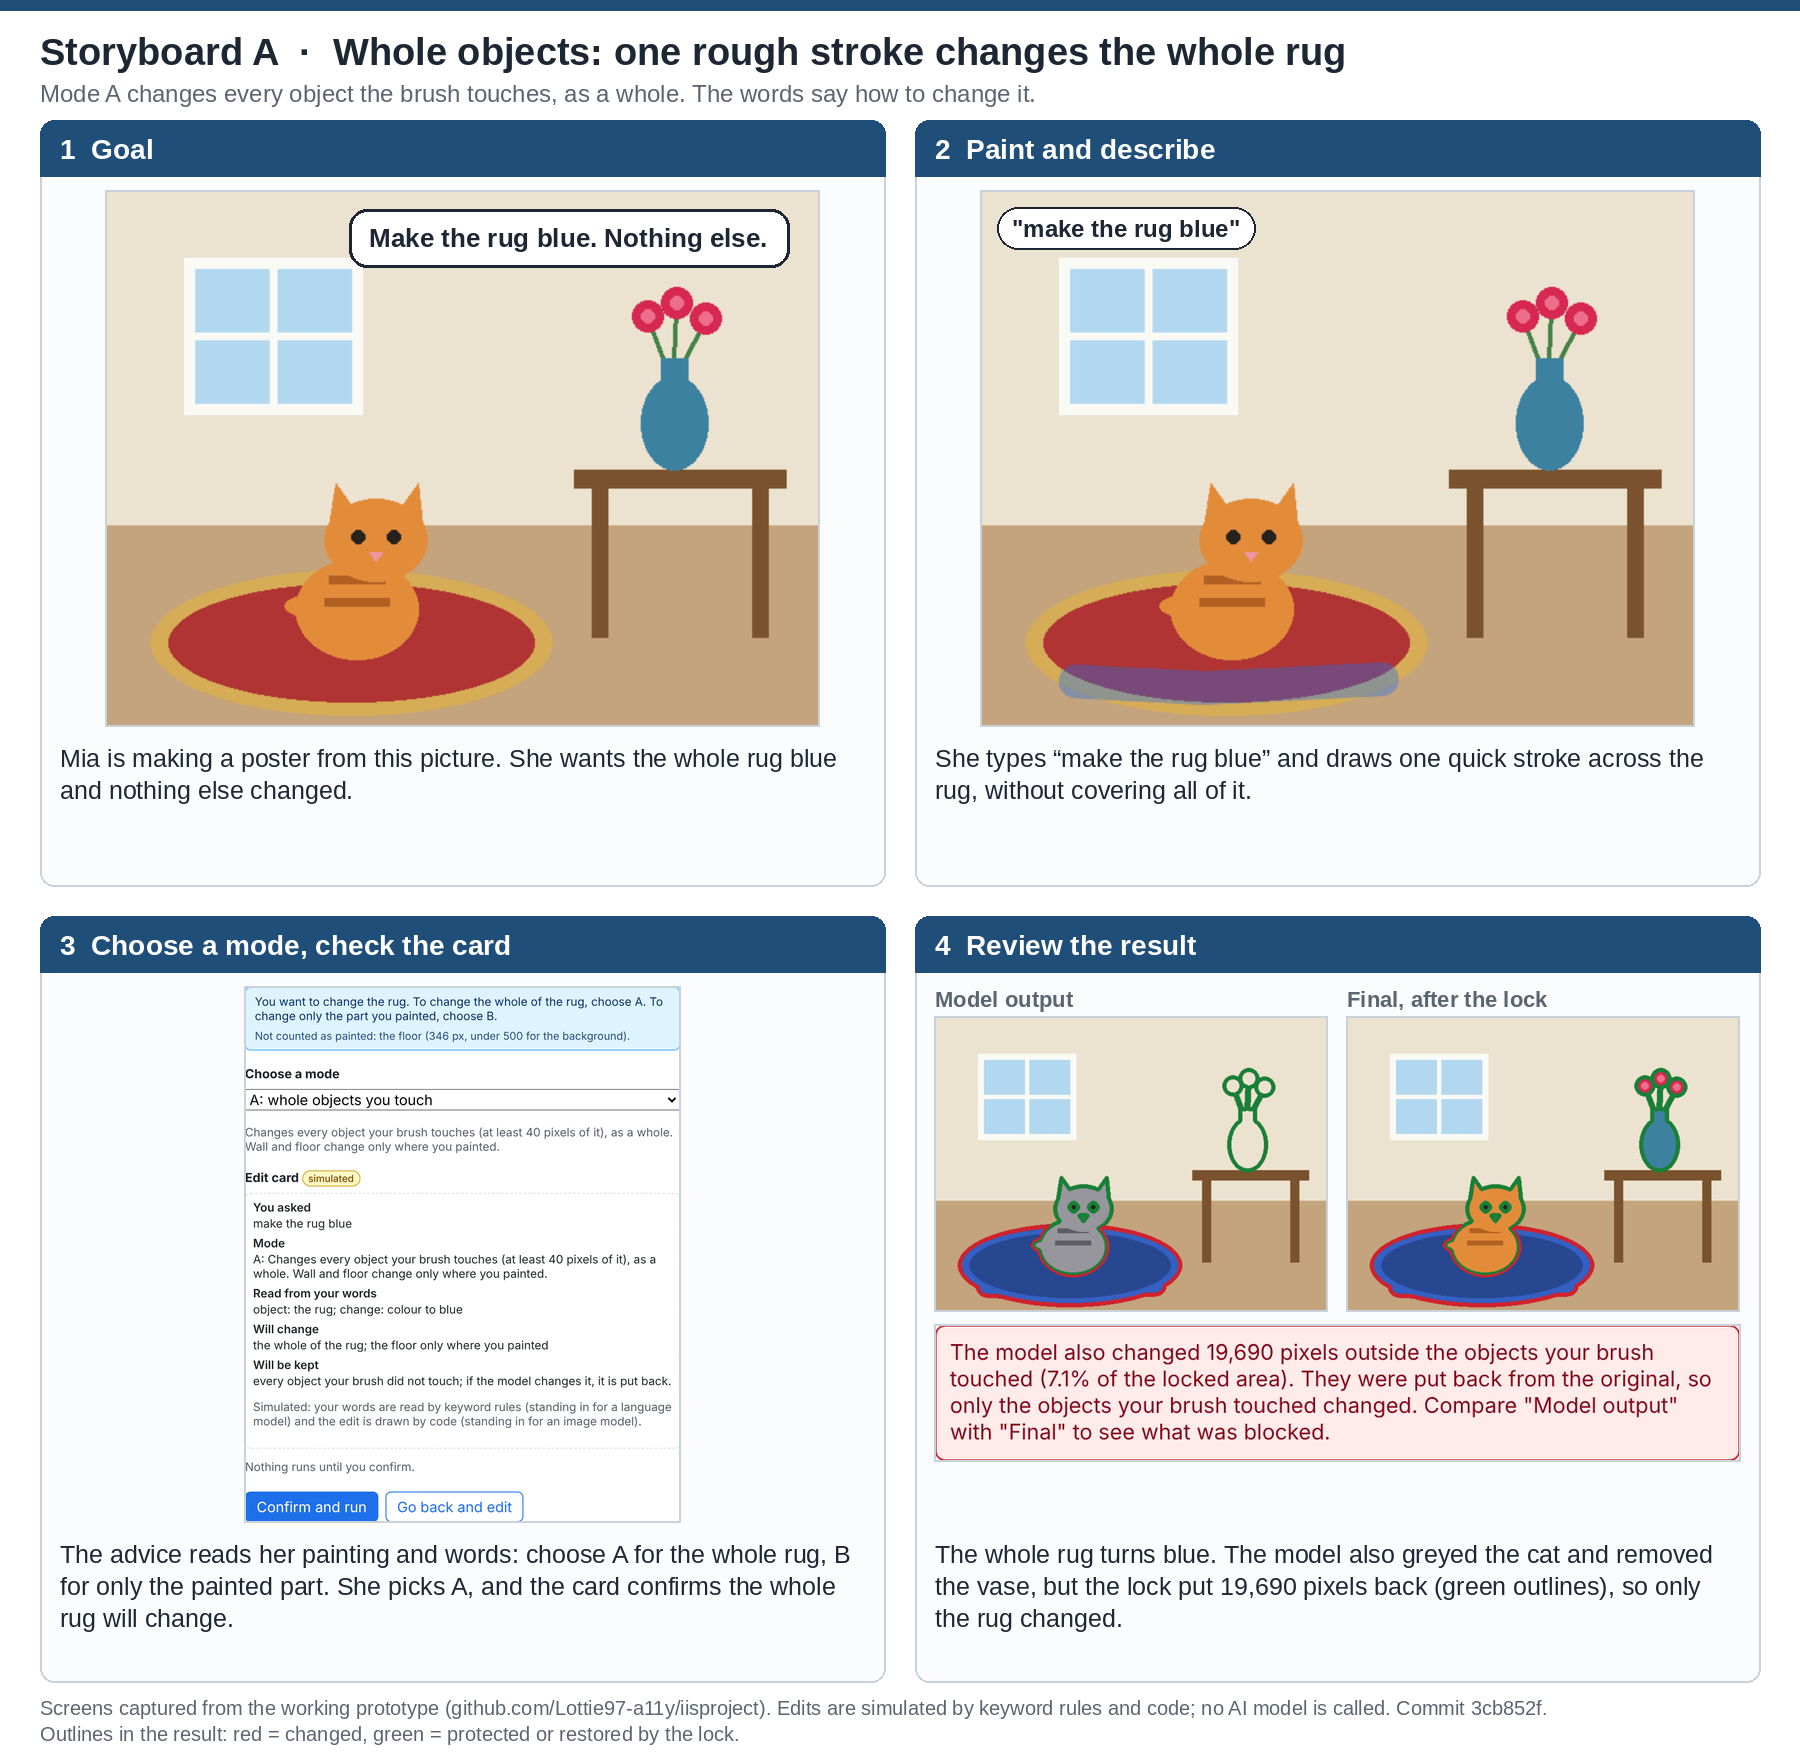
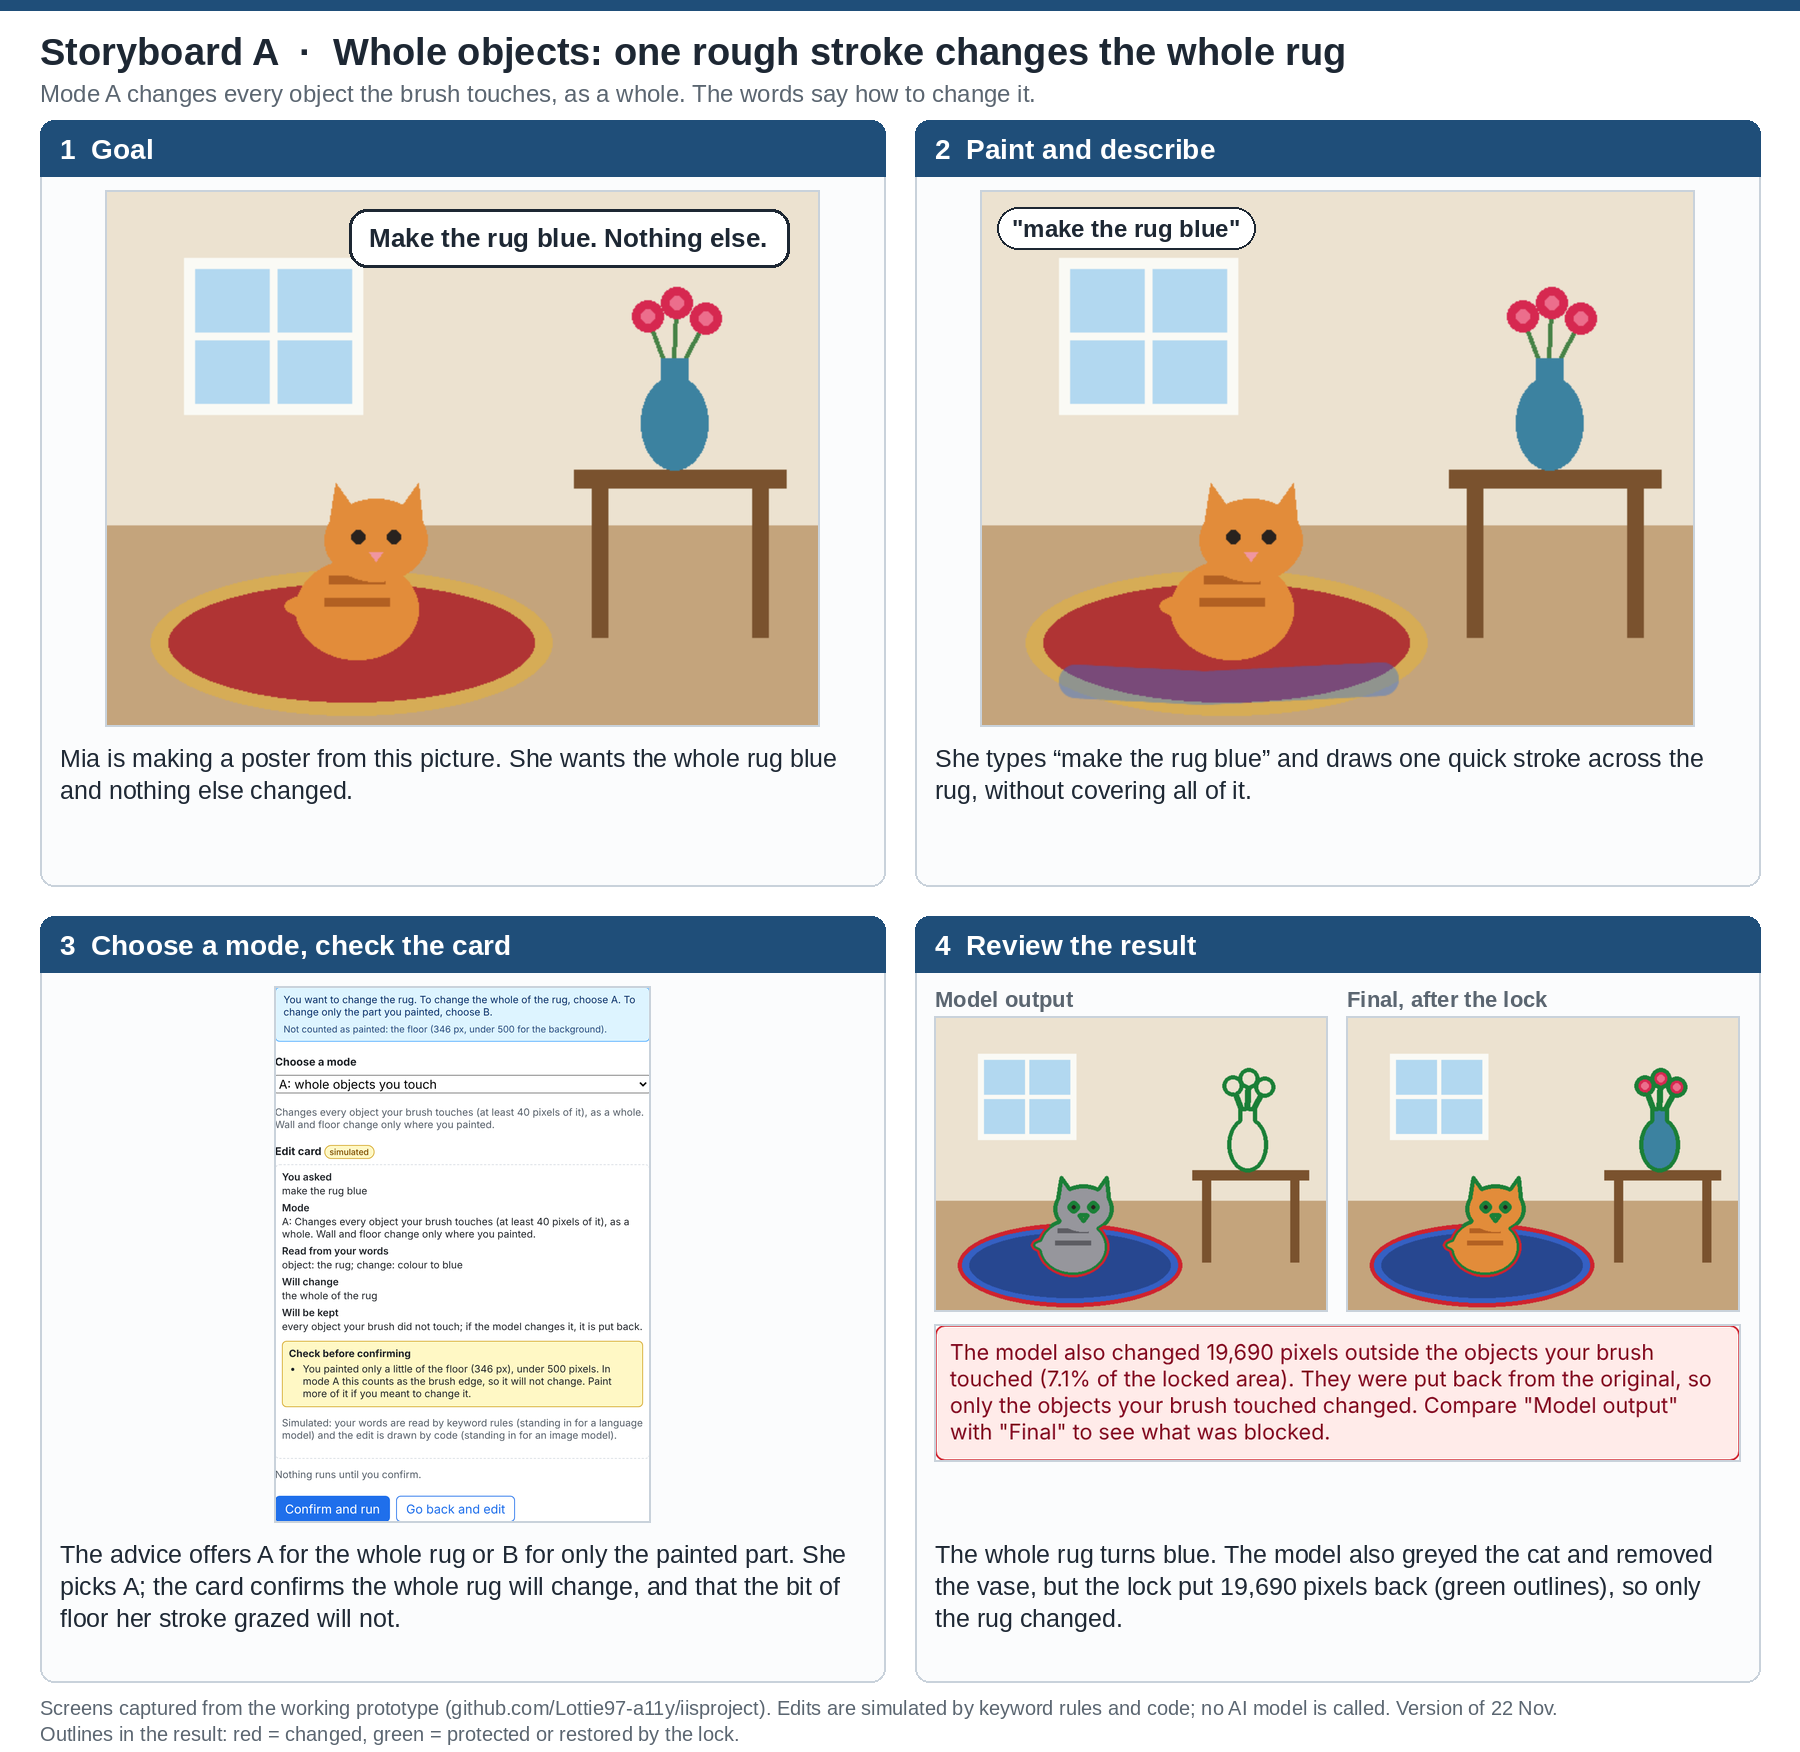
Mode A: treat small background strokes as brush edges and warn; update storyboards

Changed region(s): [[0.0311, 0.5548, 0.4667, 0.9247], [0.7778, 0.9555, 0.8711, 0.9863]]

diff --git a/static/app.js b/static/app.js
@@ -289,11 +289,12 @@ function analyse(parsed) {
   const paintedObjects = [...paintedBy.entries()].filter(([id, n]) => n >= minFor(id)).map(([id]) => id);
   const ignored = [...paintedBy.entries()].filter(([id, n]) => n < minFor(id));
   const touched = paintedObjects.filter((id) => !BACKGROUND.has(id)); // objects A changes whole
-  // A changes wall and floor wherever painted, however little, so the card lists any of it
-  const bgTouched = [...paintedBy.keys()].filter((id) => BACKGROUND.has(id));
+  // 22 Nov: in A, wall and floor change where painted only from MIN_TOUCH_BG pixels; less is a brush edge
+  const bgTouched = paintedObjects.filter((id) => BACKGROUND.has(id));
+  const bgEdge = [...paintedBy.entries()].filter(([id, n]) => BACKGROUND.has(id) && n < MIN_TOUCH_BG);
   // share of each object that is painted, in per cent
   const share = Object.fromEntries([...paintedBy.entries()].map(([id, n]) => [id, Math.round((100 * n) / totalBy.get(id))]));
-  return { painted, overlap, targetTotal, others, touched, bgTouched, paintedObjects, ignored, share };
+  return { painted, overlap, targetTotal, others, touched, bgTouched, bgEdge, paintedObjects, ignored, share };
 }
 
 // Step 2 advice (user's rules, 21 Nov), shown above the mode list:
@@ -399,6 +400,14 @@ function renderCard(mode, typed, parsed, a) {
     willKeep = "every object your brush did not touch; if the model changes it, it is put back.";
     const missed = parsed.targets.filter((id) => !a.touched.includes(id) && !a.bgTouched.includes(id));
     const extra = a.touched.filter((id) => !parsed.targets.includes(id));
+    if (!a.touched.length && !a.bgTouched.length) {
+      block.push(`Your brush only grazes the edges (under ${MIN_TOUCH} pixels of an object or ${MIN_TOUCH_BG} of the background), so in mode A nothing would change. Paint the object you want to change.`);
+    }
+    if (a.bgEdge.length) {
+      const edges = a.bgEdge.map(([id, n]) => `${objName(id)} (${n} px)`);
+      warn.push(`You painted only a little of ${edges.join(" and ")}, under ${MIN_TOUCH_BG} pixels. In mode A this counts as the brush edge, so `
+        + `${a.bgEdge.length > 1 ? "they" : "it"} will not change. Paint more of it if you meant to change it.`);
+    }
     if (missed.length) warn.push(`Your words name ${listNames(missed)}, but your brush did not touch ${missed.length > 1 ? "them" : "it"}. This mode changes what you touch, so ${listNames(missed)} will not change.`);
     if (a.touched.length > 1) {
       // 22 Nov: extra warning whenever the brush range will change more than one whole object
@@ -461,7 +470,7 @@ function renderCard(mode, typed, parsed, a) {
   card.appendChild(note);
 
   $("confirmBtn").disabled = block.length > 0;
-  state.pending = { mode, instruction: typed, parsed, touched: a.touched };
+  state.pending = { mode, instruction: typed, parsed, touched: a.touched, bgTouched: a.bgTouched };
 }
 
 function confirmEdit() {
@@ -482,7 +491,10 @@ function confirmEdit() {
 function inScope(conf, p, painted) {
   const k = state.objMap[p];
   const id = k >= 0 ? state.scene.objects[k].id : null;
-  if (conf.mode === "A") return id && !BACKGROUND.has(id) ? conf.touched.includes(id) : painted;
+  if (conf.mode === "A") {
+    if (!id) return painted;
+    return BACKGROUND.has(id) ? painted && conf.bgTouched.includes(id) : conf.touched.includes(id);
+  }
   if (conf.mode === "B") return painted && !!id && conf.parsed.targets.includes(id);
   return painted;
 }

diff --git a/index.html b/index.html
@@ -113,6 +113,6 @@
 
   <script src="static/samples.js?v=20261120a"></script>
   <script src="static/rules.js?v=20261120a"></script>
-  <script src="static/app.js?v=20261122a"></script>
+  <script src="static/app.js?v=20261122b"></script>
 </body>
 </html>

diff --git a/README.md b/README.md
@@ -1,6 +1,6 @@
 # Region-locked image editing (IIS A2 prototype)
 
-Prose word count: 1538 (code and commands not counted)
+Prose word count: 1632 (code and commands not counted)
 
 When people use text prompts to edit part of an AI-generated image, the model can change other parts they wanted to keep. Building on my A1 literature review, this browser prototype explores letting users lock those areas so the system preserves them during editing. It compares three ways of combining the user's words with their painting.
 
@@ -55,6 +55,7 @@ The first two changes are in commit [4407188](https://github.com/Lottie97-a11y/i
 
 - **21 Nov – Whole-object selection in A.** A brush stroke selects each named object it touches in full. Unnamed objects touched by the same stroke keep their original colours and get green outlines. Replaced the same day (next entry).
 - **21 Nov – Three modes redefined.** A now changes every object the brush touches, as a whole (wall and floor only where painted); B changes only the named objects, only where painted (the former A); C is unchanged. The model's unwanted changes now happen in every mode, so the lock is tested in all three. The mode is now chosen on the edit-card step, so the same painting and words can be compared across modes; on the result page, "Back to previous step" (formerly "Back to original") undoes the edit and returns to that step. On that step, advice suggests a mode: if the words name exactly the painted objects, A (whole objects) or B (painted parts), with the painted share of each object when there are several; otherwise C. In mode A, the edit card also warns whenever the brush touches more than one object, since each will change as a whole. An object counts as painted only from 40 pixels, and the background (wall, floor) only from 500 pixels, because it surrounds every object and a brush edge touches it easily. Page 1 states this rule and names the objects and the background; page 2 lists anything the brush touched that was not counted, only when there is something. Why: whole-object selection could not change part of an object, such as half the rug, while the overlap rule needed the whole object painted to change all of it; giving each rule its own mode covers both, and choosing the mode after painting lets the same input be compared. Checked: after each change Claude ran test cases in a headless browser and I reviewed the screenshots; counting the floor like an object made almost every case "unclear", so I chose a 500-pixel threshold for the background; on the live page I checked the tool and result buttons and asked for them to match.
+- **22 Nov – Background edges in A.** In mode A, a wall or floor painted under 500 pixels is now treated as the brush edge and left unchanged, and the edit card says so; if nothing else is touched, the run is blocked. Why: the advice already said such a background was not counted, but the edit still recoloured it. Checked: I spotted in storyboard A that 346 floor pixels turned blue although the advice said the floor was not counted; after the fix, Claude reran the case and the floor was unchanged.
 
 ## AI assistance
 
@@ -69,5 +70,5 @@ The first two changes are in commit [4407188](https://github.com/Lottie97-a11y/i
 - `samples/room.png`: the sample image, drawn in code by `tools/make_sample.py`. It replaced the first sample, `house.png`.
 - `static/samples.js`: generated copy of `samples/` that the page reads; do not edit by hand.
 - `static/rules.js`: the object list and keyword rules described above.
-- `docs/`: the system diagram (`system_diagram.png`, `system_diagram.svg`) and storyboards A–C (`storyboard_A.png`, `storyboard_B.png`, `storyboard_C.png`), made from the version in commit 3cb852f.
+- `docs/`: the system diagram (`system_diagram.png`, `system_diagram.svg`) and storyboards A–C (`storyboard_A.png`, `storyboard_B.png`, `storyboard_C.png`), made from the 22 Nov version of the page.
 - No ZIP file.
